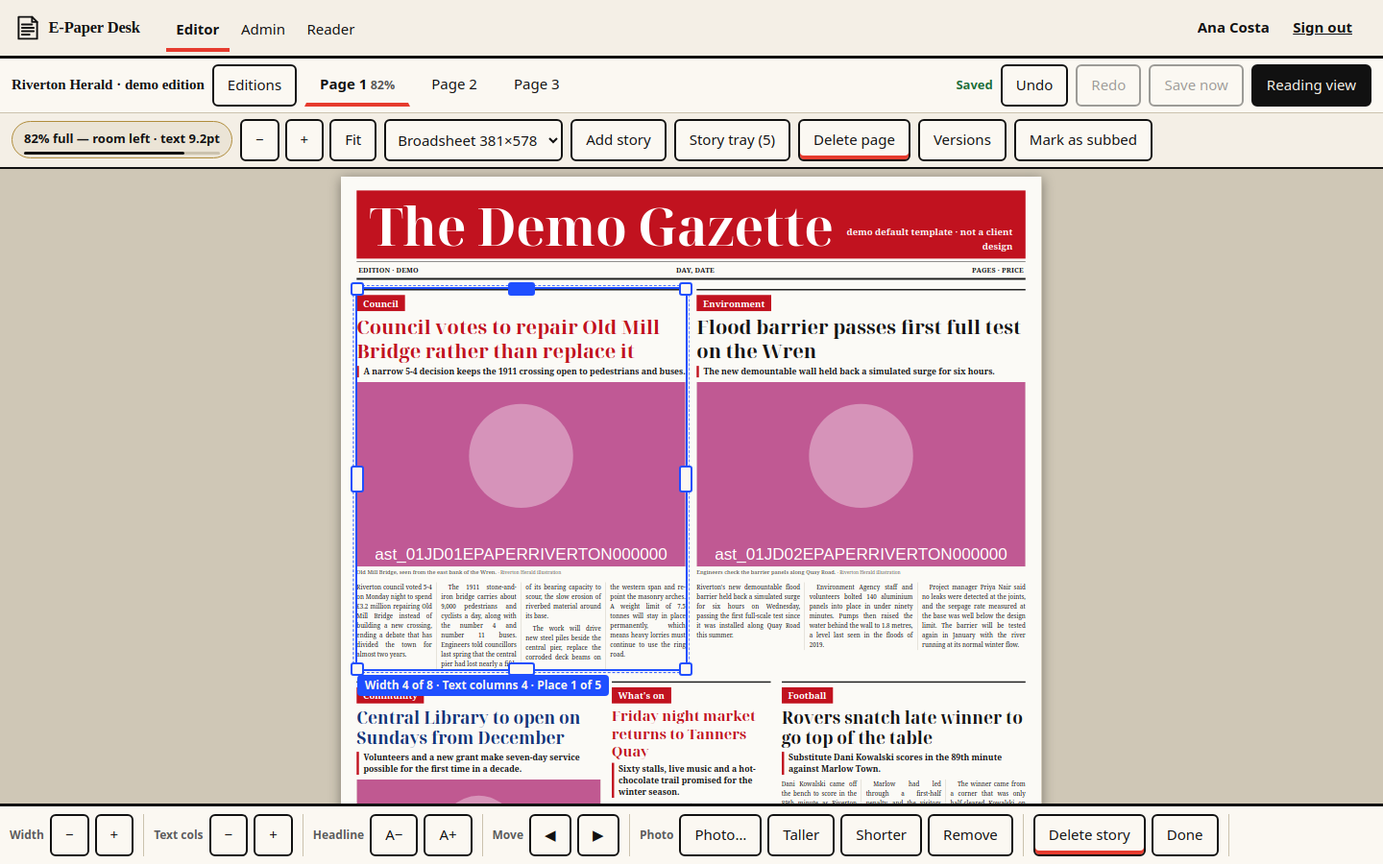
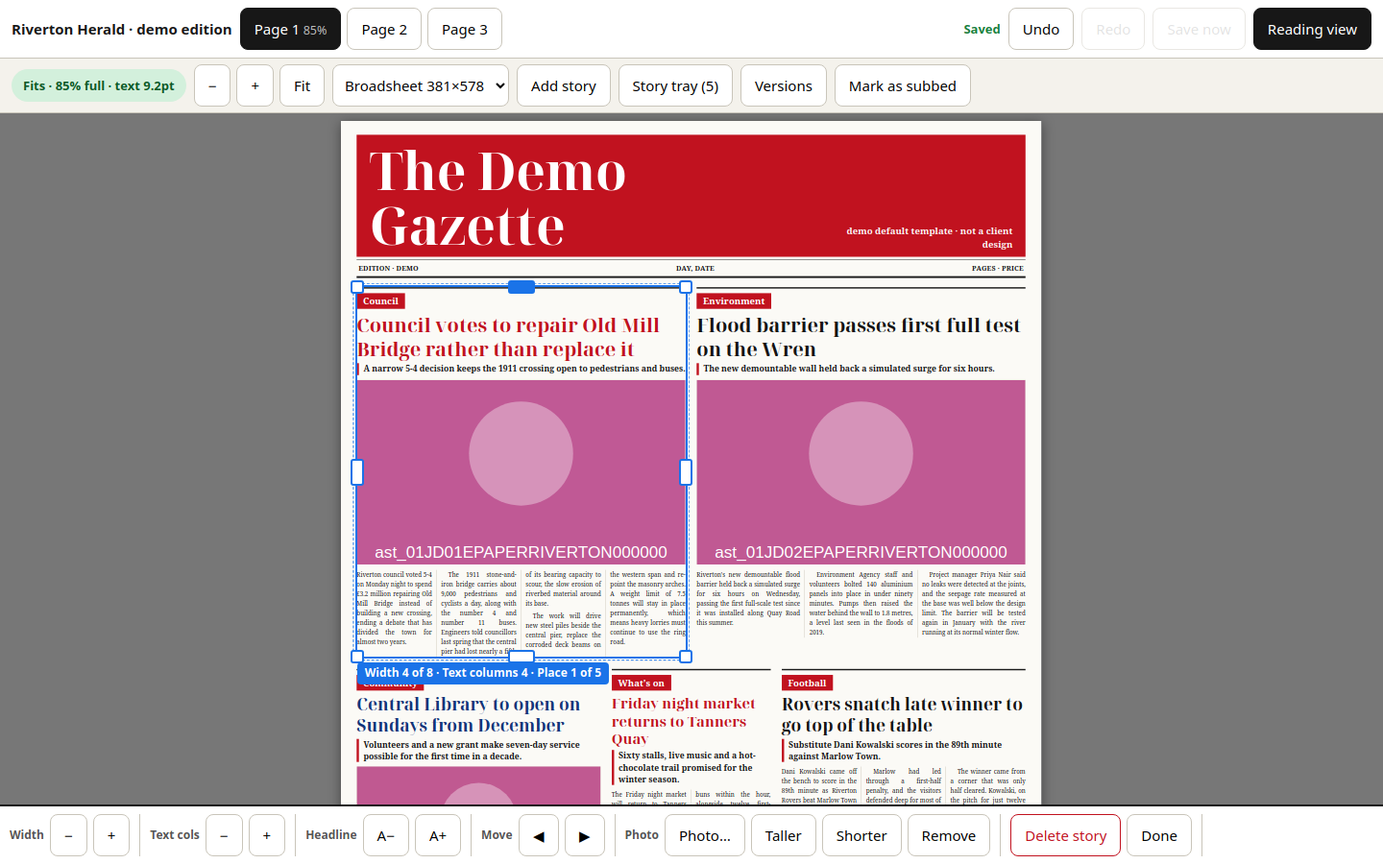
Theme docs (palette, contrast table, SSO, events, alerts), RUNBOOK for SSO_SECRET and alerts, phone top bar, glide skips the selected block, desk login buttons, tests
Claude-Session: https://claude.ai/code/session_019nhmTN1KwubRdoB4eGSX2H

diff --git a/apps/ops/src/ui.ts b/apps/ops/src/ui.ts
@@ -21,14 +21,14 @@ const page = (title: string, body: string, c: Chrome, signedIn = true) => `<!doc
 <dialog id="confirmDlg"><form method="dialog"><p id="confirmWhat"></p><p>Type <b id="confirmWord"></b> to go ahead.</p><input id="confirmInput" autocomplete="off" autocapitalize="characters"><div class="row"><button value="go" class="fix">Go ahead</button><button value="no" class="sec" formnovalidate>Cancel</button></div></form></dialog>
 <script src="/assets/app.js"></script>${signedIn ? '<script type="module" src="/assets/boot.js"></script>' : ""}</body></html>`;
 
-export const loginPage = (c: Chrome, msg?: string, sso?: { email: string } | "none" | null) => page("Ops desk login", `<h1>Ops desk</h1>${msg ? `<div class="card red"><b>${esc(msg)}</b></div>` : ""}${sso && sso !== "none" ? `<div class="card"><p>You are signed in to the newsroom apps as <b>${esc(sso.email)}</b>.</p><div class="row"><a class="btn fix" href="/stepup">Continue with this login</a></div></div><p class="mute">Or use the desk's own login below (it works even when the editor is down).</p>` : ""}<form method="post" action="/login"><label>Password<input type="password" name="password" autocomplete="current-password" required></label><label>6-digit code from your phone app (or a backup code)<input name="code" inputmode="text" autocomplete="one-time-code" required></label><div class="row"><button>Log in</button></div></form>${sso === "none" ? `<p class="mute">Already signed in to the editor? Open the editor, sign in there, then come back here and reload this page: the desk will then only ask for your 6-digit code.</p>` : ""}`, c, false);
+export const loginPage = (c: Chrome, msg?: string, sso?: { email: string } | "none" | null) => page("Ops desk login", `<h1>Ops desk</h1>${msg ? `<div class="card red"><b>${esc(msg)}</b></div>` : ""}${sso && sso !== "none" ? `<div class="card"><p>You are signed in to the newsroom apps as <b>${esc(sso.email)}</b>.</p><div class="row"><a class="btn fix" href="/stepup">Continue with this login</a></div></div><p class="mute">Or use the desk's own login below (it works even when the editor is down).</p>` : ""}<form method="post" action="/login"><label>Password<input type="password" name="password" autocomplete="current-password" required></label><label>6-digit code from your phone app (or a backup code)<input name="code" inputmode="text" autocomplete="one-time-code" required></label><div class="row"><button class="fix">Log in</button></div></form>${sso === "none" ? `<p class="mute">Already signed in to the editor? Open the editor, sign in there, then come back here and reload this page: the desk will then only ask for your 6-digit code.</p>` : ""}`, c, false);
 
 /** The one extra step after the newsroom login: only the 6-digit code. */
 export const stepUpPage = (c: Chrome, email: string, msg?: string) => page("Ops desk: one more step", `<h1>One more step</h1>${msg ? `<div class="card red"><b>${esc(msg)}</b></div>` : ""}<p>You are signed in as <b>${esc(email)}</b>. The ops desk can change and restore things, so it asks for your 6-digit code once.</p><form method="post" action="/stepup"><label>6-digit code from your phone app (or a backup code)<input name="code" inputmode="text" autocomplete="one-time-code" required autofocus></label><div class="row"><button class="fix">Open the desk</button><a class="btn sec" href="/login?own=1">Use the desk's own login</a></div></form>`, c, false);
 
-export const setupPage = (c: Chrome, msg?: string) => page("Ops desk setup", `<h1>First-time setup</h1><p>Make the one login for this desk.</p>${msg ? `<div class="card red"><b>${esc(msg)}</b></div>` : ""}<form method="post" action="/setup"><label>Setup code (from the server settings)<input name="setup" required autocomplete="off"></label><label>Choose a password (12 or more characters)<input type="password" name="password" minlength="12" required autocomplete="new-password"></label><div class="row"><button>Continue</button></div></form>`, c, false);
+export const setupPage = (c: Chrome, msg?: string) => page("Ops desk setup", `<h1>First-time setup</h1><p>Make the one login for this desk.</p>${msg ? `<div class="card red"><b>${esc(msg)}</b></div>` : ""}<form method="post" action="/setup"><label>Setup code (from the server settings)<input name="setup" required autocomplete="off"></label><label>Choose a password (12 or more characters)<input type="password" name="password" minlength="12" required autocomplete="new-password"></label><div class="row"><button class="fix">Continue</button></div></form>`, c, false);
 
-export const setupStep2 = (c: Chrome, secret: string, uri: string, codes: string[], msg?: string) => page("Ops desk setup", `<h1>Step 2: link your phone</h1>${msg ? `<div class="card red"><b>${esc(msg)}</b></div>` : ""}<p>1. Tap this to open your authenticator app: <a class="btn" href="${esc(uri)}">Add to authenticator</a></p><p>Or type this key into the app by hand:</p><p class="codes">${esc(secret)}</p><h2>2. Save these backup codes now</h2><p><b>They are shown only this once.</b> Each works one time if you lose your phone. Screenshot them or write them down.</p><p class="codes">${codes.map(esc).join("<br>")}</p><form method="post" action="/setup/confirm"><label>3. Type the 6-digit code your app shows now<input name="code" inputmode="numeric" autocomplete="one-time-code" required></label><div class="row"><button>Finish setup</button></div></form>`, c, false);
+export const setupStep2 = (c: Chrome, secret: string, uri: string, codes: string[], msg?: string) => page("Ops desk setup", `<h1>Step 2: link your phone</h1>${msg ? `<div class="card red"><b>${esc(msg)}</b></div>` : ""}<p>1. Tap this to open your authenticator app: <a class="btn" href="${esc(uri)}">Add to authenticator</a></p><p>Or type this key into the app by hand:</p><p class="codes">${esc(secret)}</p><h2>2. Save these backup codes now</h2><p><b>They are shown only this once.</b> Each works one time if you lose your phone. Screenshot them or write them down.</p><p class="codes">${codes.map(esc).join("<br>")}</p><form method="post" action="/setup/confirm"><label>3. Type the 6-digit code your app shows now<input name="code" inputmode="numeric" autocomplete="one-time-code" required></label><div class="row"><button class="fix">Finish setup</button></div></form>`, c, false);
 
 const FIX_LABEL: Record<string, string> = {
   restart: "Fix it (restart)", retry_jobs: "Retry failed jobs", clear_disk: "Free disk space", run_now: "Back up now", verify_now: "Check backups now", restart_all: "Restart everything",

diff --git a/packages/theme/theme.css b/packages/theme/theme.css
@@ -68,9 +68,10 @@
   .ep-top { padding: .15rem .5rem; gap: 0 .35rem; }
   .ep-brand .ep-word { display: none; }
   .ep-brand { min-height: 40px; }
-  .ep-links { min-width: 0; overflow-x: auto; }
+  .ep-links { order: 9; min-width: 0; max-width: 100%; overflow-x: auto; }
+  .ep-user b { display: none; }
+  .ep-slot .ep-btn, .ep-slot select { min-height: 40px; }
   .ep-links a { min-height: 40px; margin-bottom: -.15rem; border-bottom-width: 3px; padding: 0 .45rem; font-size: .95rem; }
-  .ep-user b { max-width: 8ch; }
   .ep-menu { position: fixed; left: .75rem; right: .75rem; top: 56px; width: auto; }
 }
 
@@ -83,7 +84,7 @@
 .ep-toast p { margin: .15rem 0 .4rem; }
 .ep-toast .ep-row { display: flex; gap: .6rem; align-items: center; flex-wrap: wrap; }
 @keyframes ep-slide { from { transform: translateX(110%); opacity: 0; } to { transform: none; opacity: 1; } }
-@media (max-width: 640px) { .ep-toasts { left: 12px; right: 12px; width: auto; } }
+@media (max-width: 640px) { .ep-toasts { left: 12px; right: 12px; width: auto; top: auto; bottom: calc(env(safe-area-inset-bottom, 0px) + 12px); } }
 
 /* ---- buttons ---- */
 .ep-btn { display: inline-flex; align-items: center; justify-content: center; gap: .4rem; min-height: 44px; padding: 0 1rem; font: 600 1rem/1 var(--font); color: var(--text); background: var(--surface); border: 2px solid var(--press); border-radius: var(--radius); cursor: pointer; text-decoration: none; touch-action: manipulation; transition: background var(--motion), transform var(--motion), box-shadow var(--motion); }

diff --git a/packages/theme/src/live.ts b/packages/theme/src/live.ts
@@ -146,6 +146,9 @@ export class AlertFeed {
 }
 
 /** The ops desk's alert stream, as the bell and the toasts need it. */
+/** The desk sends "/" as the place to fix things; on another app's page that must point at the desk, not at the app. */
+const aimAtDesk = (base: string, a: AlertEvent): AlertEvent => { try { return { ...a, link: new URL(a.link ?? "/", base.endsWith("/") ? base : base + "/").href }; } catch { return a; } };
+
 export function connectAlerts(o: { base: string; feed: AlertFeed; withCredentials?: boolean; EventSourceCtor?: typeof EventSource; onStatus?: (s: StreamStatus) => void; backoff?: StreamOpts["backoff"] }): Stream {
   const url = () => `${o.base.replace(/\/$/, "")}/ops/alerts/stream?since=${o.feed.getSnapshot().lastSeq}`;
   return openStream({
@@ -154,9 +157,9 @@ export function connectAlerts(o: { base: string; feed: AlertFeed; withCredential
       // what is already on the list when the page opens: fills the bell, no toast ("firing" ones do pop up, once)
       snapshot: (d: { recent?: AlertEvent[]; firing?: AlertEvent[] }) => {
         const firing = new Set((d.firing ?? []).map((a) => a.id));
-        for (const a of [...(d.recent ?? [])].reverse()) o.feed.push(a, { live: firing.has(a.id) });
+        for (const a of [...(d.recent ?? [])].reverse()) o.feed.push(aimAtDesk(o.base, a), { live: firing.has(a.id) });
       },
-      alert: (a: AlertEvent) => void o.feed.push(a),
+      alert: (a: AlertEvent) => void o.feed.push(aimAtDesk(o.base, a)),
     },
   });
 }

diff --git a/apps/editor/src/motion.ts b/apps/editor/src/motion.ts
@@ -62,13 +62,13 @@ export function useBlockMotion(ref: RefObject<HTMLElement | null>, ready: boolea
         const moved = movedBlocks(prev, next);
         for (const m of moved) {
           const el = stage.querySelector<HTMLElement>(`.story[data-item="${CSS.escape(m.id)}"]`);
-          if (!el) continue;
+          if (!el || el.classList.contains("sel")) continue; // the block being worked on jumps (its frame and handles are measured from it); the others glide
           running++;
           const a = el.animate(
             [{ transform: `translate(${m.dx}px, ${m.dy}px) scale(${m.sx}, ${m.sy})`, transformOrigin: "0 0" }, { transform: "none", transformOrigin: "0 0" }],
             { duration: GLIDE_MS, easing: "ease-out" },
           );
-          const end = () => { if (--running === 0) prev = readBoxes(stage); };
+          const end = () => { if (--running === 0) { prev = readBoxes(stage); window.dispatchEvent(new Event("resize")); } }; // then the selection frame measures the final boxes
           a.finished.then(end, end);
         }
         if (moved.length) stage.dataset.glide = String(Number(stage.dataset.glide ?? 0) + 1); // how many times blocks glided (so tests can see it ran)

diff --git a/packages/theme/test/theme.test.ts b/packages/theme/test/theme.test.ts
@@ -56,7 +56,7 @@ describe("top bar (HTML version)", () => {
   });
 });
 
-const ev = (id: string, over: Partial<AlertEvent> = {}): AlertEvent => ({ id, episode: id.split(":")[0]!, kind: "fired", key: "k", title: "The worker stopped", text: "Press fix.", at: "2026-11-27T10:00:00Z", seq: 1, ...over });
+const ev = (id: string, over: Partial<AlertEvent> = {}): AlertEvent => ({ id, episode: id.split(":")[0]!, kind: "fired", key: "k", title: "The worker stopped", text: "Press fix.", at: "2026-11-27T10:00:00Z", seq: 1, link: "/", ...over });
 
 describe("alert feed", () => {
   it("takes one id once: one toast, one row, one unread", () => {
@@ -138,6 +138,7 @@ describe("openStream", () => {
     expect(feed.getSnapshot().toasts.length).toBe(1);
     expect(feed.getSnapshot().items.length).toBe(1);
     expect(FakeES.all[0]!.init?.withCredentials).toBe(true);
+    expect(feed.getSnapshot().toasts[0]!.href).toBe("http://ops.test/"); // the desk's "/" becomes the desk's address
     FakeES.all[0]!.onerror!(); vi.advanceTimersByTime(20);
     expect(FakeES.all[1]!.url).toBe("http://ops.test/ops/alerts/stream?since=5");
     st.close(); vi.useRealTimers();

diff --git a/apps/editor/e2e/live.spec.ts b/apps/editor/e2e/live.spec.ts
@@ -93,7 +93,7 @@ test("alerts: an owner gets one toast and one bell count for an alert sent twice
   await expect(toast).toHaveCount(1, { timeout: 5000 });
   await expect(toast).toContainText("The worker needs you");
   await expect(page.getByTestId("bell-count")).toHaveText("1");
-  await expect(toast.getByRole("link", { name: "Open in ops desk" })).toHaveAttribute("href", /\/$/);
+  await expect(toast.getByRole("link", { name: "Open in ops desk" })).toHaveAttribute("href", "http://127.0.0.1:8181/");
   await toast.getByRole("button", { name: "Dismiss" }).click();
   await expect(page.getByTestId("alert-toast")).toHaveCount(0);
   await page.getByTestId("bell").click();

diff --git a/apps/ops/src/app.ts b/apps/ops/src/app.ts
@@ -84,7 +84,7 @@ export function buildApp(d: AppDeps) {
   const chrome = (req: FastifyRequest, extra: Partial<ui.Chrome> = {}): ui.Chrome => {
     const c = ssoClaims(req);
     const info = auth.sessionInfo(token(req));
-    return { links: linksFor(req), user: info.sso && c ? { name: c.email, email: c.email } : { name: "Owner (desk login)" }, ...extra };
+    return { links: linksFor(req), user: info.sso && c ? { name: c.email, email: c.email } : { name: "Desk login" }, ...extra };
   };
   const cookieOpts = () => ({ secure: cfg.secureCookie, domain: cfg.ssoCookieDomain });
 

diff --git a/apps/ops/test/sso.test.ts b/apps/ops/test/sso.test.ts
@@ -84,7 +84,7 @@ describe("one login: newsroom sign-in, then the 6-digit code once", () => {
     const cookie = await loginCookie(s);
     const r = await get(s, "/", cookie);
     expect(r.statusCode).toBe(200);
-    expect(r.body).toContain("Owner (desk login)");
+    expect(r.body).toContain("Desk login");
     expect(s.api.calls).toEqual([]);
     // and the newsroom path works just as well with the API stopped
     const secret = (s as unknown as { _secret: string })._secret;

diff --git a/docs/theme.md b/docs/theme.md
@@ -1,0 +1,160 @@
+# Forme colours and the joined-up product
+
+One look and one login for the four apps (editor, admin, reader, ops desk). Code: `packages/theme` (look, top bar, toasts, live streams) and `packages/sso` (the shared sign-in cookie). The newspaper page itself keeps its own template colours; only the app chrome around it uses the palette.
+
+## 1. Palette and tokens
+
+| Name | Value | Use |
+|---|---|---|
+| press black | `#111111` | type, the logo, hard rules, borders |
+| newsprint cream | `#F4EFE6` | page backgrounds |
+| proof red | `#E63B2E` | accent, **sparingly**: the one primary action on a screen, the active tab marker, error and alert state. Never body text. |
+| plate blue | `#1F4FFF` | links, focus ring, secondary (blue) panels |
+| ink grey | `#5C5C5C` | secondary text |
+| brass gold | `#B08D3C` | small touches only: a rule, a banner edge, the reader's strip line. Never text on cream, never the only carrier of a meaning |
+
+Tints of the six, for surfaces and hairlines: `paper #FBF8F2` (a card on cream), `cream-2 #EBE4D6` (hover, zebra), `stage #CFC7B6` (the desk behind a page in the editor), `line #CBC2AE` (hairlines), `proof-hover #EE5A4E`.
+
+**One colour the palette does not have:** `ok #1B6E3A`, a green for the status lights ("Working") and a "fixed" edge. The ops desk's lights are green, amber, red and the owner's 2 am guide says so; green carries no brand meaning, is always next to the word and a tick, and amber is brass plus the word "Check soon" and a triangle. Colour is never the only signal (every state also has a word and a mark).
+
+Source of truth in code: `packages/theme/src/tokens.ts` (TypeScript) and `packages/theme/theme.css` (CSS custom properties `--press --cream --proof --plate --grey --brass --paper --cream-2 --stage --line --ok` and the meanings `--bg --surface --text --text-2 --link --accent --on-accent --focus`). A test keeps the two identical and fails if the CSS contains any other hex colour.
+
+Usage rules:
+- Red text on cream is **not allowed** (it fails AA for normal text). Red is a fill, an edge or a marker. Text on red is press black.
+- Primary action = red button with black label, at most one per screen/card (editor: "Approve and lock"; ops: the "Fix it" button on a red light; admin: the submit button).
+- The active tab/page/app is marked with a 4 px red underline.
+- Links are blue and underlined; on the dark reader stage text is cream (blue fails on black).
+- Errors: a red left edge and plain words in black. Never red text.
+- Buttons are 44 px high at least; everything works at 360 px.
+- Light only (no dark mode). The ops desk used a dark scheme before; it now follows the same newsprint look so the product reads as one.
+
+## 2. Contrast (WCAG AA)
+
+Computed by `packages/theme/src/tokens.ts` (`contrastTable()`); the test `packages/theme/test/theme.test.ts` fails if any listed pair drops below its limit. 4.5:1 for normal text, 3:1 for large text and for UI parts and graphics.
+
+| Pair in use | Colours | Ratio | Needs | Result |
+|---|---|---|---|---|
+| Body text | `press` on `cream` | 16.49:1 | 4.5:1 (text) | pass |
+| Body text on a card | `press` on `paper` | 17.81:1 | 4.5:1 (text) | pass |
+| Body text on hover/zebra rows | `press` on `cream2` | 14.93:1 | 4.5:1 (text) | pass |
+| Secondary text | `grey` on `cream` | 5.84:1 | 4.5:1 (text) | pass |
+| Secondary text on a card | `grey` on `paper` | 6.31:1 | 4.5:1 (text) | pass |
+| Secondary text on hover/zebra rows | `grey` on `cream2` | 5.29:1 | 4.5:1 (text) | pass |
+| Links | `plate` on `cream` | 5.06:1 | 4.5:1 (text) | pass |
+| Links on a card | `plate` on `paper` | 5.47:1 | 4.5:1 (text) | pass |
+| Text on a blue secondary panel | `paper` on `plate` | 5.47:1 | 4.5:1 (text) | pass |
+| Primary button label (red button) | `press` on `proof` | 4.52:1 | 4.5:1 (text) | pass |
+| Alert count in the bell | `press` on `proof` | 4.52:1 | 4.5:1 (text) | pass |
+| Text on the dark reader stage | `cream` on `press` | 16.49:1 | 4.5:1 (text) | pass |
+| Secondary text on the dark reader stage | `stage` on `press` | 11.24:1 | 4.5:1 (text) | pass |
+| Brass on the dark reader stage (small text) | `brass` on `press` | 6.04:1 | 4.5:1 (text) | pass |
+| Status word: working | `ok` on `paper` | 5.93:1 | 4.5:1 (text) | pass |
+| Red marker (active tab, alert edge) against cream | `proof` on `cream` | 3.65:1 | 3:1 (UI part) | pass |
+| Red marker against a card | `proof` on `paper` | 3.94:1 | 3:1 (UI part) | pass |
+| Focus ring (blue) against cream | `plate` on `cream` | 5.06:1 | 3:1 (UI part) | pass |
+| Input and button borders (black) against cream | `press` on `cream` | 16.49:1 | 3:1 (UI part) | pass |
+| Status dot: working | `ok` on `paper` | 5.93:1 | 3:1 (UI part) | pass |
+
+Pairs that are **deliberately not used** (the test asserts they really fail, so nobody "fixes" the rule by accident):
+
+| Pair | Colours | Ratio | Needs | Result |
+|---|---|---|---|---|
+| Red text on cream (fails for normal-size text) | `proof` on `cream` | 3.65:1 | 4.5:1 (text) | **fail** |
+| White-on-red labels (fails for normal-size text) | `paper` on `proof` | 3.94:1 | 4.5:1 (text) | **fail** |
+| Brass text on cream | `brass` on `cream` | 2.73:1 | 4.5:1 (text) | **fail** |
+| Blue text on press black | `plate` on `press` | 3.26:1 | 4.5:1 (text) | **fail** |
+
+The proof-red button with a black label passes only just (4.52:1); do not lighten the red or shrink the label below 16 px bold.
+
+## 3. The shared top bar
+
+One component, two forms with the same markup and classes (`.ep-top`):
+- React: `TopBar` in `@epaper/theme/react` (editor, admin; the reader is Preact and maps `react` to `preact/compat`).
+- HTML string: `topBarHtml()` in `@epaper/theme/html` (the ops desk renders HTML on the server).
+
+Contents: logo mark (`packages/theme/logo.svg`, press black) and name; a slot for the paper name and the paper switcher where the app has one (editor, admin); links Editor / Admin / Reader / Ops desk (the ops link and the alert bell are shown **only to owners**); the signed-in person and Sign out; the alert bell with the unread count. The current app has the red marker. Where the other apps live is worked out from the address (`resolveLinks`: same host and ports 8100/8101/8102, or `app.`/`ops.`/`epaper.` on a domain) and can be forced with `window.__EPAPER_LINKS__` or `OPS_LINK_EDITOR|ADMIN|READER` on the desk.
+
+Toasts (`ToastHost`, and `mountAlerts` for the ops desk) slide in at the top right: plain-words title and text, **Dismiss**, **Open in ops desk**. A red alert stays until dismissed; "fixed" and test notes go away after 10 s.
+
+## 4. One login (SSO)
+
+Account database = the API's users. No second user list.
+
+```
+ editor / admin ──POST /v1/auth/login──▶ API
+                                        │  sets  epaper_session   (the API's own session, 14 days, HttpOnly, Lax)
+                                        │  sets  epaper_sso       (signed statement, 12 h, HttpOnly, Lax, Path=/)
+                                        ▼
+ browser keeps both cookies (cookies are shared across ports on one host; with SSO_COOKIE_DOMAIN, across sub-domains)
+
+ ops desk, no ops session yet:
+   GET /   ── epaper_sso valid + owner? ──▶ /stepup  "One more step: your 6-digit code"
+                                              │ POST code (TOTP or a backup code; same lock-out and "a code works once" rules)
+                                              ▼
+                                         ops_session (12 h) that REMEMBERS which sign-in it rests on
+   every later request: session ok AND the same epaper_sso still present, else back to the login page
+```
+
+The cookie `epaper_sso` is `base64url(JSON claims) "." base64url(HMAC-SHA256(SSO_SECRET, claims))`. Claims: `uid`, `email`, `owner` (owns at least one paper), `exp` (12 h). The ops desk checks it **without calling the API or Postgres**. It accepts it only for owners (and, if `OPS_OWNER_EMAILS` is set, only for those addresses). The 6-digit code is the second factor, asked once per ops session; enrolment (setup code, password, authenticator, backup codes) is unchanged.
+
+- **Break glass:** the desk's own login (password + code) always works, with the API or Postgres down or `SSO_SECRET` unset. Its sessions do not depend on any cookie of the API.
+- **Sign out anywhere signs out everywhere.** API logout (`POST /v1/auth/logout`) revokes the session and clears `epaper_sso` and `ops_session`. Desk logout (`GET /logout`) clears `ops_session`, `epaper_sso` and `epaper_session` (one cookie jar on one host) and the login page then calls the API's logout in the background (a fire-and-forget request; the desk never waits for it). A desk session made through the newsroom login ends as soon as the shared cookie is gone. A break-glass desk session is only ended by the desk itself or the API logout on the same host.
+- **Refresh:** `GET /v1/me` hands out a new `epaper_sso` when it is missing or has under 6 h left, so people who work all day are not asked again.
+- **Honest limits:** the cookie is a bearer statement for 12 h. Removing a person or revoking their API session elsewhere does not reach the desk before it expires (the desk cannot ask the API; that is the point). The shared secret signs everybody: keep it only in `.env`. A paper owner of any paper counts as an "owner" for the desk; use `OPS_OWNER_EMAILS` to narrow it to the real owner. Everyone shares the desk's one TOTP secret.
+- Env vars: `SSO_SECRET` (API and ops), `SSO_COOKIE_DOMAIN`, `OPS_OWNER_EMAILS`, `OPS_APP_ORIGINS`. See `docs/RUNBOOK.md`.
+
+## 5. Live updates without refresh (editor and reader)
+
+```
+ API route / worker job
+   1. write the row (Postgres)
+   2. SELECT pg_notify('epaper_events', '{"type":..., "paper_id":...}')      ← AFTER the write; failure never fails the save
+                              │
+                              ▼  LISTEN epaper_events (one connection per API process; reconnects with 1..30 s back-off,
+                              │  and tells every screen to "resync" when it comes back)
+                       EventHub.dispatch ──▶ per-paper subscribers
+                              │
+        GET /v1/events (signed in, this paper)      GET /v1/public/papers/:slug/events (public: published/updated only)
+                              │                                     │
+                           editor                                 reader
+```
+
+| Event | Sent by | Carries |
+|---|---|---|
+| `page.updated` | API after save, approve, restore; worker when the fit changes the text size | `page_id, edition_id, rev, fill, status, by` |
+| `page.fit` | worker when a measure finishes | `page_id, edition_id, rev, fill, state (ok/low/over), overflow` |
+| `edition.changed` | API after a page is deleted, worker after auto-plan | `edition_id` |
+| `edition.exported` | worker when an export (PDF, ContentXML, IDML) or the e-paper build finishes or fails | `export_id, edition_id, format, status` |
+| `edition.published` / `edition.updated` | API on publish and rollback, worker on scheduled publish and page replacement | `ep_edition_id, edition_id, date, version` |
+
+Client (`openStream` in `packages/theme/src/live.ts`): `EventSource` with credentials, reconnect with back-off, and if the stream is blocked or down it **polls every 15 s** (editor: `refreshFromServer()`, reader: re-reads the edition). Caddy passes the streams unbuffered (`flush_interval -1`); the service worker never touches `/events`.
+
+Editor rule: **never overwrite unsaved work.** A page nobody here touched is replaced quietly (and its tab shows the new fill %). A page with unsaved changes only gets a banner: "Someone changed this page. Your changes here are not saved over theirs. [Reload to compare]"; the button opens the same both-versions choice as a save conflict. The reader reloads the open edition's pages and says "This edition was updated" while staying on the page being read.
+
+## 6. One alerts stream
+
+```
+ ops desk alert engine (apps/ops/src/alerts.ts, works with no Postgres/API; looks every 15 s)
+        │  each change: <alert>@<start>:fired | :remind:<t> | :resolved   (the id is stable)
+        ▼
+ AlertHub.emit(id, ...)   (apps/ops/src/alertlog.ts)   ← the ONLY place that fans out; an id already taken does nothing
+   1. append to _ops/alerts.jsonl                 ─▶ the desk's Alerts page and GET /ops/alerts
+   2. push to open streams  GET /ops/alerts/stream ─▶ bell + toast in editor, admin, reader (owners) and on the desk
+   3. phone channel: Telegram, else alerts.log    (Telegram keys not set yet: WAITING ON OWNER)
+```
+
+The stream is authenticated with the desk session or the shared `epaper_sso` cookie (owners only) and has CORS only for the known app origins (`OPS_APP_ORIGINS`) with credentials. A page that reconnects gets `snapshot` (recent and still-firing alerts); the feed in the browser (`AlertFeed`) takes each id once, so one alert is one toast, one bell count, one list row, one Telegram message. The `alerts` test (`apps/ops/test/alerts-stream.test.ts`) fires one alert and checks the three consumers see it exactly once, also after a reconnect.
+
+## 7. Motion
+
+Everything uses `--motion: 180ms ease-out`. Buttons, tabs, the fill bar and the chip colours ease; panels, modals, notes and toasts slide or fade in. In the editor, blocks glide to their new place and size on a refit, a move or a resize (`apps/editor/src/motion.ts`, a FLIP animation on the blocks of the rendered page; the paper CSS is untouched). No glide while a drag is in progress, while someone types (900 ms quiet), when the set of blocks differs (another page) and, above all, when the person's system asks for **reduced motion**: then nothing animates anywhere.
+
+## 8. Where things are
+
+| What | Where |
+|---|---|
+| Tokens, CSS, logo, top bar, toasts, streams, alert feed | `packages/theme` (`src/tokens.ts`, `theme.css`, `logo.svg`, `src/react.tsx`, `src/html.ts`, `src/live.ts`, `src/vanilla.ts`) |
+| Signed sign-in cookie | `packages/sso`, used by `apps/api/src/sso.ts` and `apps/ops/src/app.ts` |
+| Events | `apps/api/src/events.ts`, `apps/api/src/routes/events.ts`, `apps/worker/src/events.ts` |
+| Alerts | `apps/ops/src/alertlog.ts`, `apps/ops/src/alerts.ts` |
+| Editor live + motion | `apps/editor/src/store.ts` (`onLive`), `apps/editor/src/motion.ts` |

diff --git a/docs/RUNBOOK.md b/docs/RUNBOOK.md
@@ -77,6 +77,29 @@ If any of the four is missing, say so before you start. Do not guess.
 2. If the whole website is down too, the server may be off. Open the provider's console (from the recovery kit) and restart the server. Everything comes back by itself in a few minutes.
 3. If only the desk is dead, restart it from the provider's console. The desk cannot press its own button while it is stopped.
 
+## One login for the editor, admin, reader and the desk (since 2026-11-27)
+You sign in once, in the editor or the admin console. The same sign-in opens the ops desk, which then asks only for your 6-digit code (once per visit). Signing out in any of the four signs you out of all of them.
+
+**One setting makes it work: `SSO_SECRET` in `/srv/epaper/.env`.** It is a long random text that the API and the ops desk both read. Make one on the server (it prints it once; paste it into `.env`, never anywhere else):
+
+    openssl rand -base64 48
+
+Then restart the API and the ops desk. Anyone who knows this text can pretend to be signed in, so treat it like a password. Changing it signs everybody out of the desk (not out of the editor); put the new one in and restart the two.
+
+| Setting (in `.env`) | What it does | If you leave it out |
+|---|---|---|
+| `SSO_SECRET` | Turns the shared sign-in on (16 or more characters). | The desk uses only its own login, as before. Nothing else changes. |
+| `SSO_COOKIE_DOMAIN` | Only when the apps are on different names (`app.`, `ops.`, `epaper.`): the shared part, for example `example.org`, so one sign-in works across them. | The sign-in is shared by the address only (right for one address with different ports). |
+| `OPS_OWNER_EMAILS` | Comma list. Only these e-mail addresses may use the newsroom sign-in on the desk. | Any owner of a paper may. The 6-digit code is still needed. |
+| `OPS_APP_ORIGINS` | Comma list of the editor, admin and reader addresses that may show the desk's alerts. | Worked out from `OPS_HOST` (`app.` and `epaper.`), or the usual local ports. |
+
+**The desk's own login (password + 6-digit code) always stays.** If the editor, the API or the database is down, or `SSO_SECRET` is not set, open the desk and use the form on the login page. It needs nothing else running. This is the "break glass" way in; do not remove it.
+
+What to expect: open the ops address while signed in to the editor, and the desk shows "One more step: your 6-digit code". If you are not signed in to the editor, it shows the normal login page (use it, or sign in at the editor first and reload).
+
+## Alerts: one list, three places (since 2026-11-27)
+Every alert (a red light starting, a reminder every 6 hours, "fixed") is written once to `/srv/epaper/files/_ops/alerts.jsonl`. From that one place it goes to: the small bell and slide-in note in the editor, the admin console and the desk; Telegram; and the desk's own page **Alerts**. The same alert never shows twice. Telegram is still **WAITING ON OWNER** (`ALERT_TELEGRAM_TOKEN`, `ALERT_TELEGRAM_CHAT`): until they are set, the phone line is written to `/srv/epaper/files/alerts.log` and the bell, notes and the Alerts page still work. "Send a test alert" on the desk sends a test through all three.
+
 ## 7. What to tell the builder
 
 Write down the time, the row that was red and the words under it. Copy them from **History** (it lists every press and the result). Do not paste passwords.
